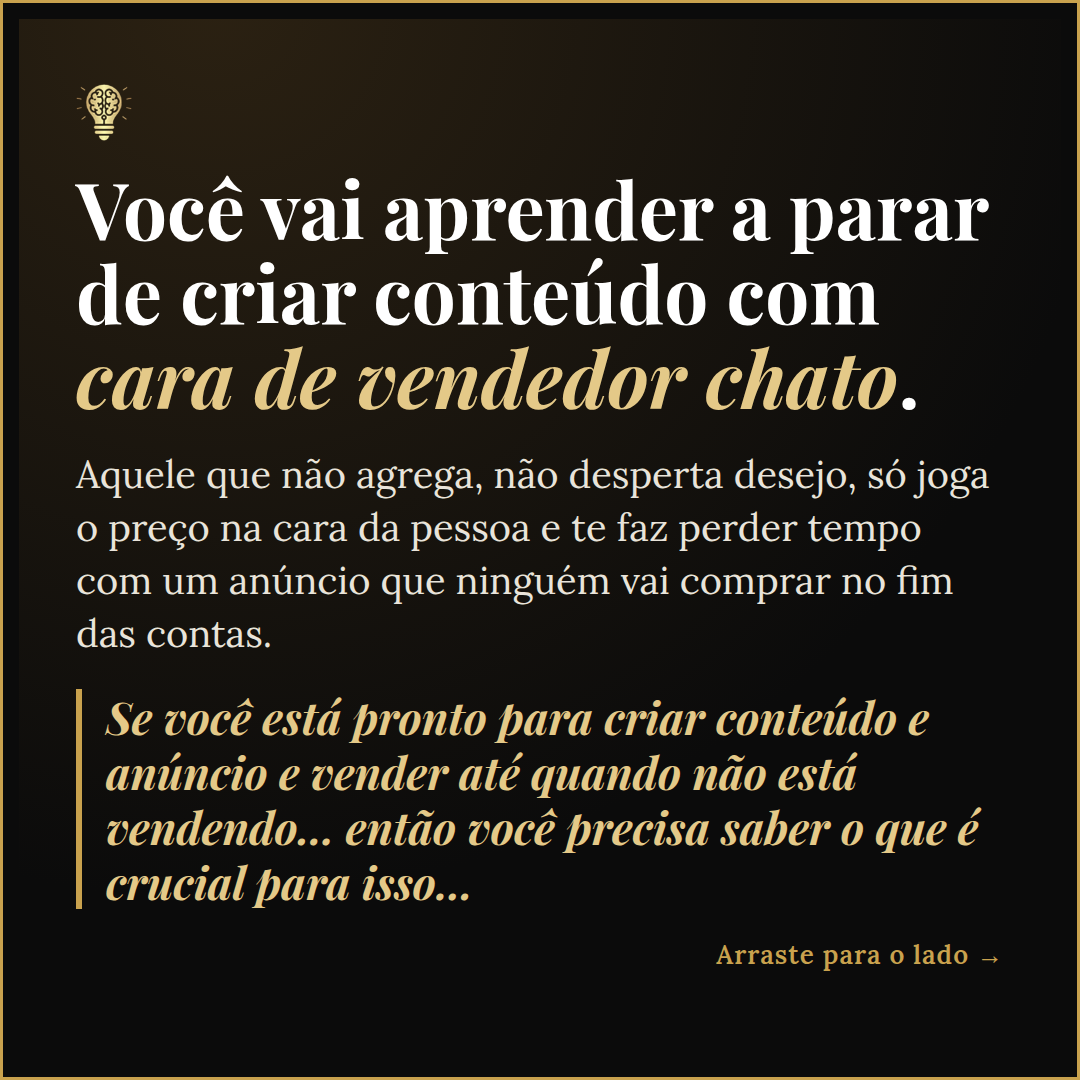
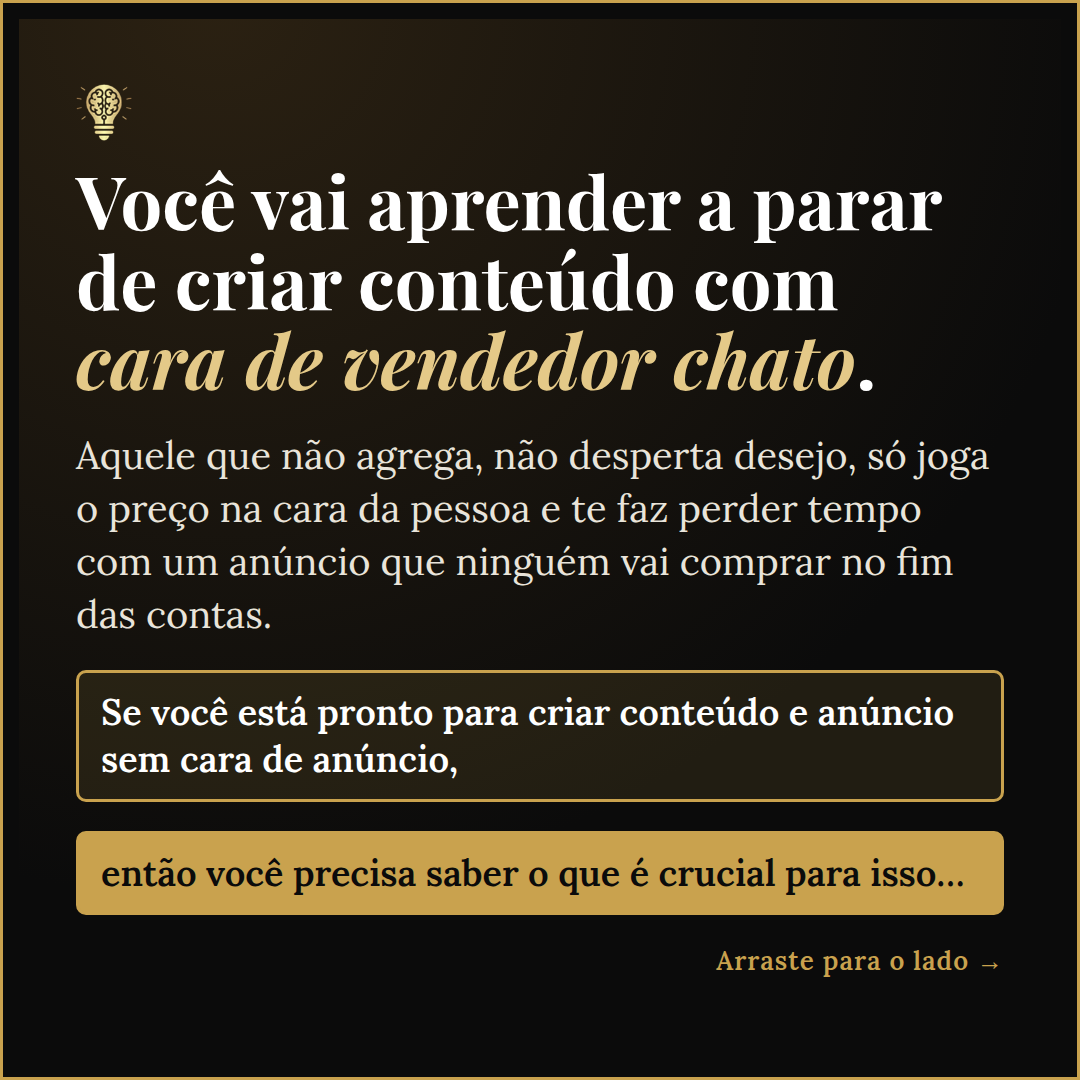
Carrossel Recria Ads: card 4 com dois destaques em caixa
Claude-Session: https://claude.ai/code/session_01DxpPKgzfVt8WYQSkZW1Msu

Changed region(s): [[0.0611, 0.1528, 0.9167, 0.6417], [0.0611, 0.6417, 0.9472, 0.9167]]

diff --git a/recria/criativos-estaticos/gerar-recria-ads.js b/recria/criativos-estaticos/gerar-recria-ads.js
@@ -10,7 +10,7 @@ const ITEMS=[
 ["ads-2a-historia","","Se você tem um <em>negócio</em>, eu preciso te mostrar uma coisa que pode estar te fazendo perder dinheiro.","Lá atrás, isso que eu vou te contar me fez quebrar dois negócios. Depois que eu descobri e ajustei, tudo mudou…","","","seta1"],
 ["ads-2b-revelacao","","Percebeu? <em>Parabéns, você acabou de cair no anúncio.</em>","Eu retive a sua atenção, gerei identificação e fiz você arrastar para o lado para continuar lendo, mesmo sem me conhecer. E sabe por quê?","","","seta"],
 ["ads-2c-porque","","Todo mundo pula anúncio <em>com cara de anúncio</em>, mas para por uma boa história.","Uma história bem amarrada aos interesses e desejos de quem lê. É a neurociência: o cérebro presta atenção no que fala dele, do que ele quer e do que o interessa.||E sabe qual é o ponto mais importante disso?","","","seta"],
-["ads-2d-gancho","","Você vai aprender a parar de criar conteúdo com <em>cara de vendedor chato</em>.","Aquele que não agrega, não desperta desejo, só joga o preço na cara da pessoa e te faz perder tempo com um anúncio que ninguém vai comprar no fim das contas.||Se você está pronto para criar conteúdo e anúncio e vender até quando não está vendendo… então você precisa saber o que é crucial para isso…","","","seta"],
+["ads-2d-gancho","","Você vai aprender a parar de criar conteúdo com <em>cara de vendedor chato</em>.","Aquele que não agrega, não desperta desejo, só joga o preço na cara da pessoa e te faz perder tempo com um anúncio que ninguém vai comprar no fim das contas.||Se você está pronto para criar conteúdo e anúncio sem cara de anúncio,||então você precisa saber o que é crucial para isso…","","","seta"],
 ["ads-2e-oferta","","Aprenda a criar conteúdos e anúncios <em>sem cara de anúncio</em>, como as grandes marcas.","Adaptando para o seu cenário e para o seu negócio, mesmo que você tenha baixo orçamento ou seja uma empresa pequena. Para saber mais, toque no botão.","","Quero saber mais",""],
 ["ads-3-prova","Recria Ads","Aprenda a criar conteúdos que <em>atraem, engajam e vendem</em>. Com leveza.","Olha esse carrossel do meu perfil de yoga: atraí as pessoas, elas se identificaram e comentaram “eu quero”. No direct, continuei a conversa com a oferta do meu curso e vendi. Tudo configurado de forma automatizada. Você também quer aprender?","","Quero saber mais","prova"]
 ];
@@ -37,11 +37,13 @@ h1 em{color:#E4C988}
 .fn{font-size:${Math.round(f.s[1]*0.7)}px;color:#a9a396;text-align:center;margin-top:-6px}
 .mid .p{align-self:flex-start;margin:0}
 .dq{font-family:'Playfair Display',serif;font-style:italic;font-weight:700;color:#E4C988;font-size:${Math.round(f.s[0]*1.15)}px;line-height:1.25;border-left:6px solid #C9A24E;padding-left:24px}
+.bx{font-family:'Lora',serif;font-weight:600;color:#fff;font-size:${Math.round(f.s[0]*0.95)}px;line-height:1.3;border:3px solid #C9A24E;border-radius:10px;padding:16px 22px;background:rgba(201,162,78,.12)}
+.bx+.bx{color:#0b0b0b;background:#C9A24E}
 .sw{color:#C9A24E;font-weight:600;font-size:${Math.round(f.s[1]*1.1)}px;letter-spacing:.04em;text-align:right}
 .cta{background:#C9A24E;color:#0b0b0b;font-weight:700;font-size:${f.cta}px;text-align:center;padding:${f.ctap}px;border-radius:10px;letter-spacing:.02em}
 `;}
 function html(it,f){const [n,k,h,s,p,c,x]=it;
- return `<!doctype html><meta charset="utf-8"><style>${css(f)}</style><div class="c">${x==='seta1'?'':`<img class="ic" src="${ICON}">`}<div class="mid">${k?`<div class="k">${k}</div>`:''}<h1>${h}</h1><div class="s">${s.split("||")[0]}</div>${s.includes("||")?`<div class="dq">${s.split("||")[1]}</div>`:""}${x==='prova'?`<div class="ph"><img src="${P1}"><img src="${P2}"></div>`:''}${p?`<div class="p">${p}</div>`:''}${c?`<div class="cta">${c}</div>`:''}${x==="seta"||x==="seta1"?'<div class="sw">Arraste para o lado →</div>':''}${x==='prova'?'<div class="fn">Caso real do meu perfil de yoga. Os resultados variam de pessoa para pessoa.</div>':''}</div><div class="bd"></div></div>`;}
+ return `<!doctype html><meta charset="utf-8"><style>${css(f)}</style><div class="c">${x==='seta1'?'':`<img class="ic" src="${ICON}">`}<div class="mid">${k?`<div class="k">${k}</div>`:''}<h1>${h}</h1><div class="s">${s.split("||")[0]}</div>${s.split("||").slice(1).map(t=>`<div class="${n==="ads-2d-gancho"?"bx":"dq"}">${t}</div>`).join("")}${x==='prova'?`<div class="ph"><img src="${P1}"><img src="${P2}"></div>`:''}${p?`<div class="p">${p}</div>`:''}${c?`<div class="cta">${c}</div>`:''}${x==="seta"||x==="seta1"?'<div class="sw">Arraste para o lado →</div>':''}${x==='prova'?'<div class="fn">Caso real do meu perfil de yoga. Os resultados variam de pessoa para pessoa.</div>':''}</div><div class="bd"></div></div>`;}
 (async()=>{const b=await chromium.launch({executablePath:'/opt/pw-browsers/chromium'});
 for(const [fn,f] of Object.entries(FORMATS)){fs.mkdirSync(`${D}/recria-ads/${fn}`,{recursive:true});
  const pg=await b.newPage({viewport:{width:f.w,height:f.h}});
